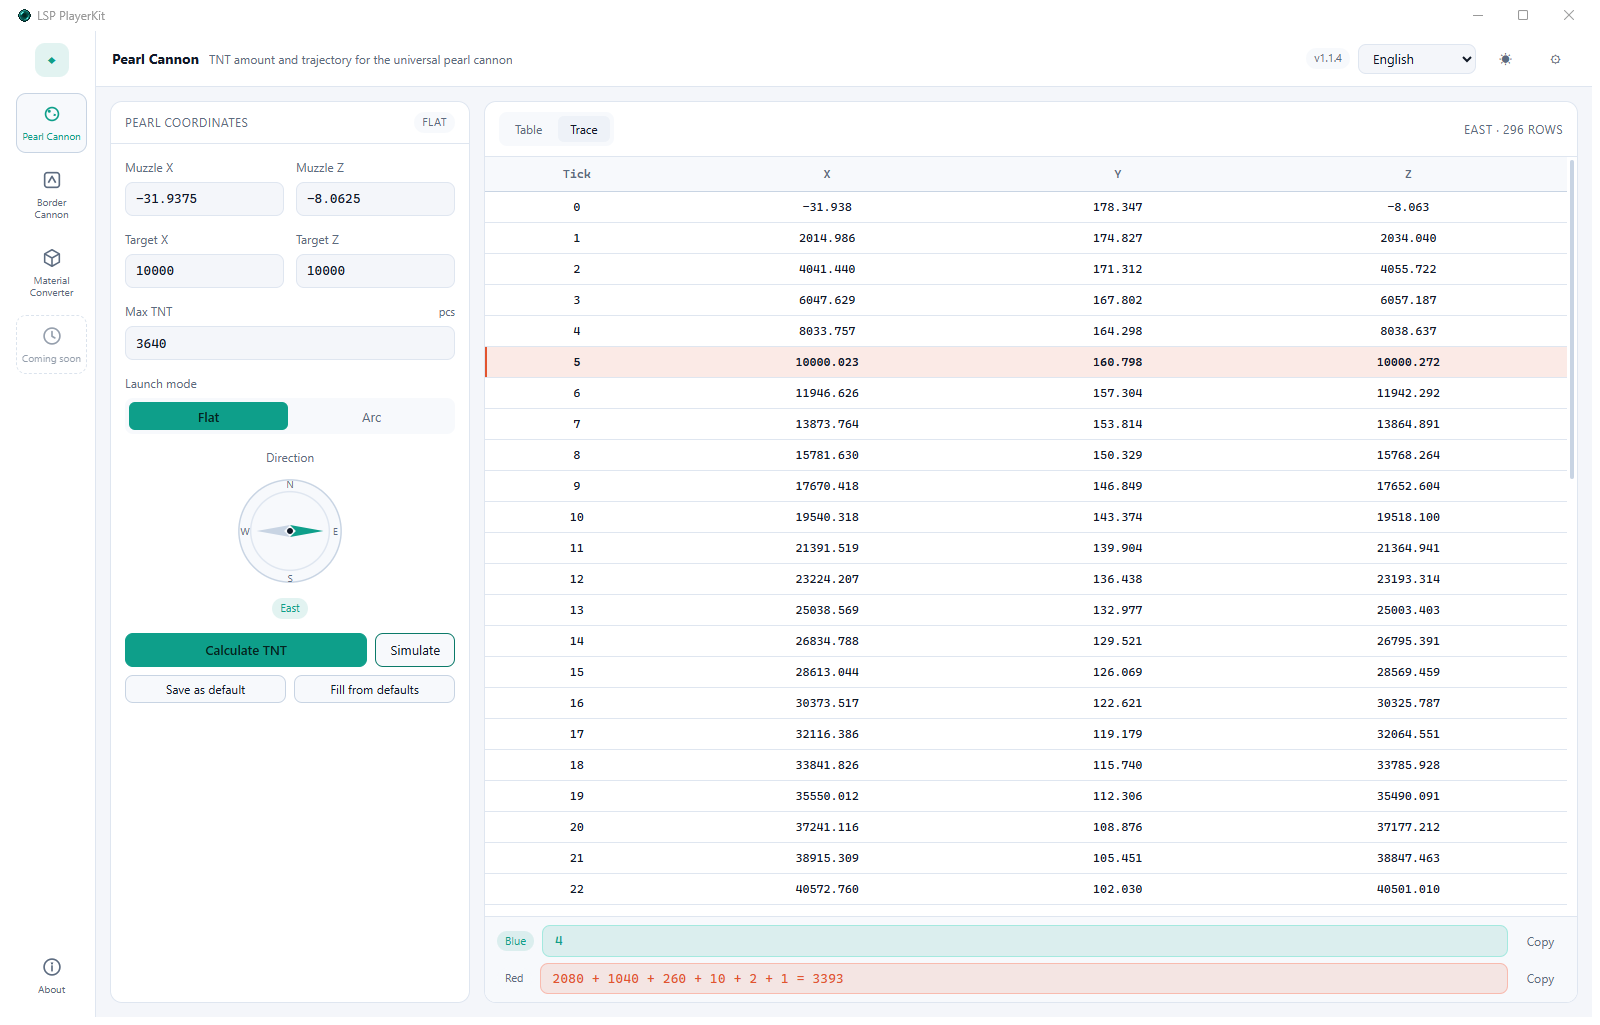
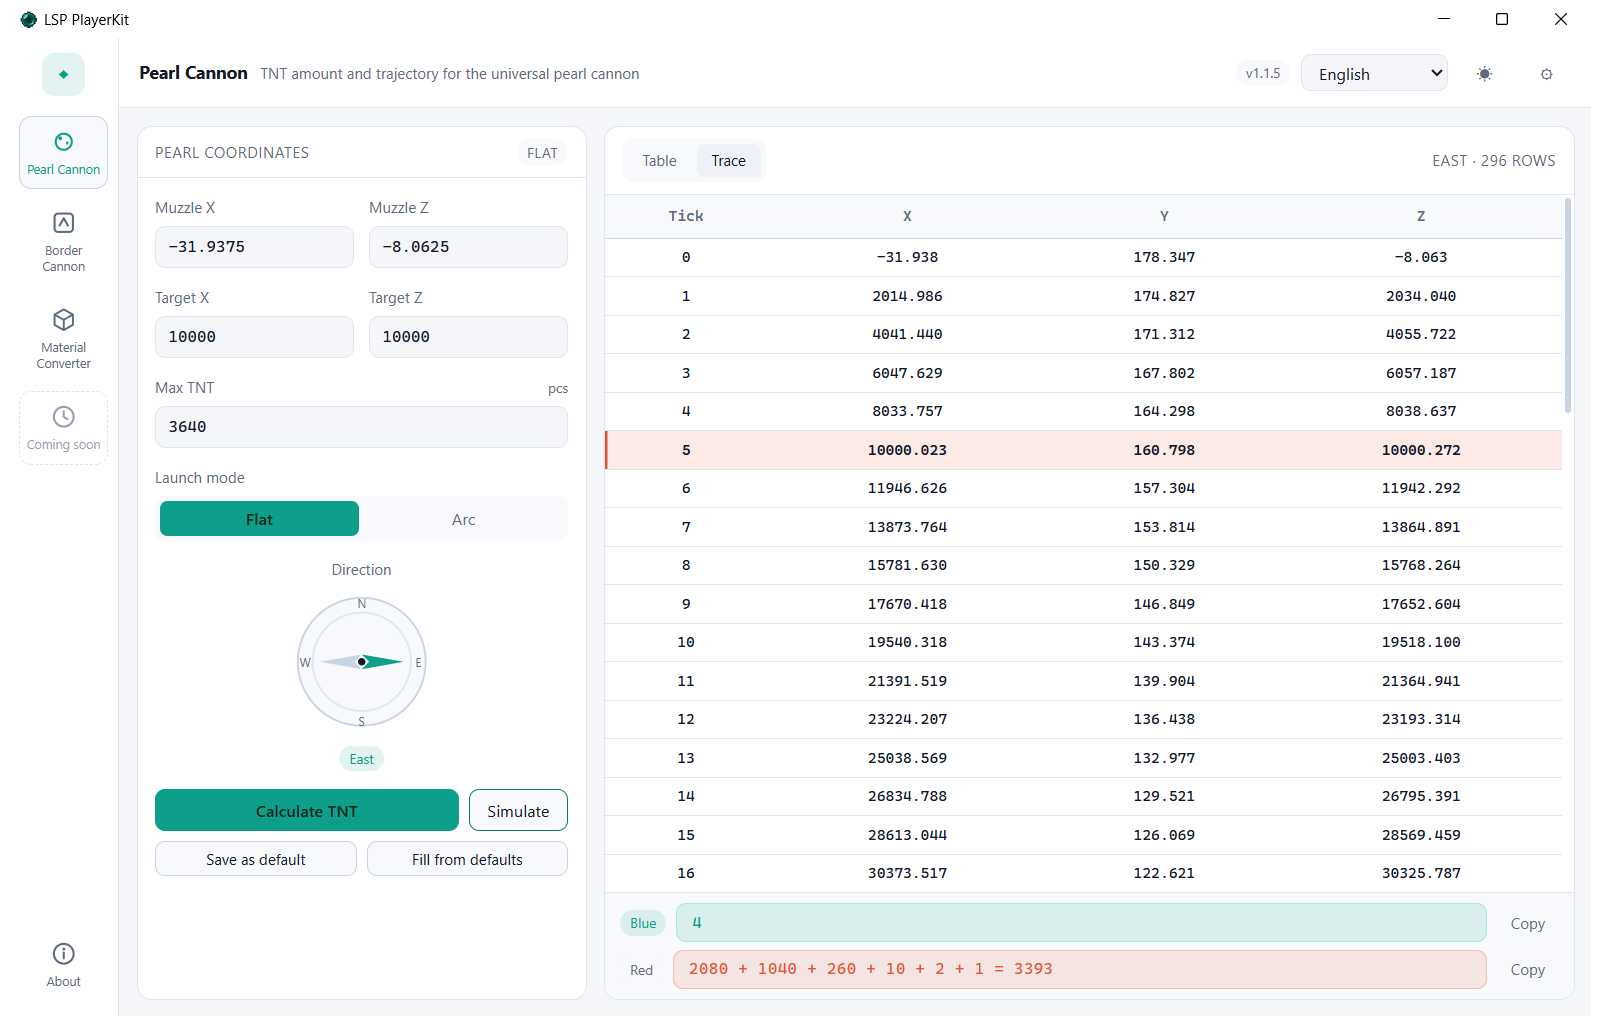
docs: 投影导入与物品形式口径说明及 1.1.5 截图
- README 中英材料换算章节补充 .litematic 导入、物品形式统计与语言跟随
- 中英文截图按 1.1.5 全部重拍

diff --git a/docs/README.en.md b/docs/README.en.md
@@ -143,10 +143,14 @@ Converts a Litematica material list into **shulker boxes / stacks / items** and 
 
 ### 4.1 Import material lists
 
-- Click **Import material list** to pick **several** CSVs at once (click again to append). **GBK and UTF-8** are both supported.
+- Click **Import material list** to pick **several** files at once (click again to append): material lists (**CSV / TXT**, GBK or UTF-8) and **`.litematic` schematics** can be mixed.
+- A `.litematic` is counted by **item form**, not by block form: wall signs/torches/heads, water/lava/powder-snow cauldrons, redstone wire and crops are folded into their collectable items (sign, torch, cauldron, redstone dust, seeds and so on), while facing or waterlogged variants are merged.
+- Water and lava count only at the **source** (the state that can be bucketed); bubble columns, fire, soul fire, piston heads, nether portals, barrier-like blocks and other blocks **without an item form** are filtered out. Hover a row to see its region, block and filtered counts.
+- The result matches Litematica's Chinese material list exactly: for the same structure both the schematic and the CSV report **51 kinds / 17 091 items** with identical per-item counts.
+- Schematic material names follow the **current interface language** (简体中文 / 繁體中文 / English): switching the language re-counts imported schematics immediately, no re-import needed.
 - Each list gets a row on the left: the checkbox decides whether it takes part, the row shows that list's kinds · items, and `✕` removes it. Unticking recalculates immediately.
-- Lists are merged by **material name** with counts summed; names are kept exactly as imported.
-- Header detection is unchanged: name/count columns are read from the header (Litematica's `Item, Total, Missing, Available` uses **Total**), otherwise `name count` lines are parsed.
+- Lists are merged by **material name** with counts summed: schematic names match Litematica's CSV export in the same language, so the same material from both kinds of source adds up correctly.
+- Header detection: name/count columns are read from the header (Litematica's `Item, Total, Missing, Available` uses **Total**), otherwise `name count` lines are parsed.
 - The pending list, result, loading plan and export use only the **ticked** lists; stack overrides and the ignore list apply globally by material name.
 - Appending lists keeps your stack overrides and ignore list, but clears the material selection and export file name.
 

diff --git a/README.md b/README.md
@@ -143,10 +143,13 @@
 
 ### 4.1 导入材料清单
 
-- 点击**导入材料列表**可一次选择**多份** CSV（再点一次继续追加）。文件编码支持 **GBK / UTF-8**，无需手动转码。
+- 点击**导入材料列表**可一次选择**多份**文件（再点一次继续追加）：支持投影模组导出的材料清单（**CSV / TXT**，编码 GBK / UTF-8）以及 **`.litematic` 投影**，两类可以混选。
+- `.litematic` 按**物品形式**统计，而不是按方块形态：墙上的告示牌/火把/头颅、含水/熔岩/细雪的炼药锅、红石线、作物等都会折算成对应的可收集物品（告示牌、火把、炼药锅、红石粉、种子等），朝向、含水等 `Properties` 变体自动合并。
+- 水与岩浆只统计**源头**（能舀成桶），流动形态不计数；气泡柱、火、灵魂火、活塞头、下界传送门、边界方块等**没有物品形式**的方块会被过滤。鼠标悬停在清单行上可看到「区域数 · 方块数 · 过滤数」。
+- 投影材料名跟随**当前界面语言**（简体中文 / 繁體中文 / English）：切换语言后已导入的投影会立即按新语言重新统计，无需重新导入。
 - 每份清单在左栏占一行：勾选框决定它是否参与换算，右侧显示该清单的「种类 · 数量」，`✕` 可移除；取消勾选会立即按剩余清单重算。
-- 多份清单按**材料名称合并数量**（同名相加），名称仍与文件**完全一致**（不改大小写、不加前缀）。
-- 表头识别规则不变：优先按列名取「名称」和「数量」，Litematica 的 `Item, Total, Missing, Available` 会取 **Total** 列；没有表头时回退为「名称 数量」逐行解析。
+- 多份清单按**材料名称合并数量**（同名相加）：投影材料名与同语言的 Litematica CSV 名称一致，混合导入时同名材料会正确相加。
+- CSV 表头识别：优先按列名取「名称」和「数量」，Litematica 的 `Item, Total, Missing, Available` 会取 **Total** 列；没有表头时回退为「名称 数量」逐行解析。
 - 材料列表、换算结果、装填与导出都只使用**当前勾选**的清单；堆叠覆盖与忽略名单按材料名全局生效。
 - 追加导入不会清空堆叠与忽略设置，但会清空材料勾选与导出文件名。
 
